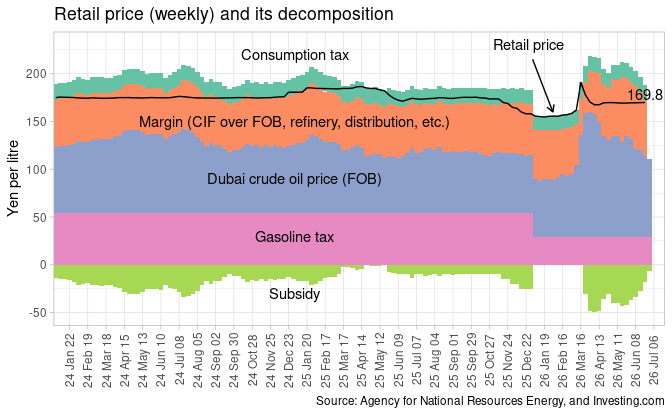
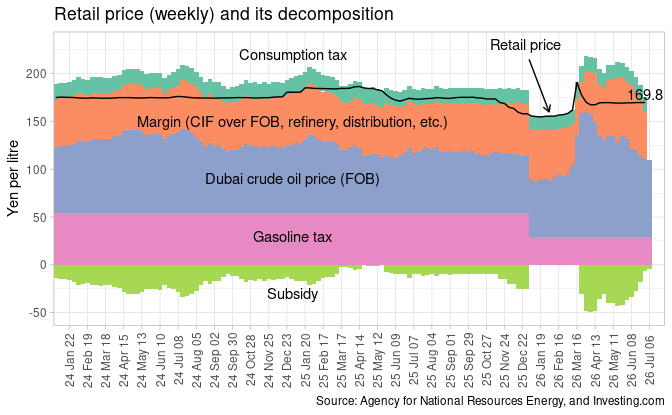
weekly update on July 1, 2026

diff --git a/README.md b/README.md
@@ -25,7 +25,7 @@ library(tidyquant)
 theme_set(theme_light())
 ```
 
-Updated: 2026-06-30
+Updated: 2026-07-01
 
 ## Weekly update
 
@@ -38,7 +38,7 @@ every Wednesday, usually. Sometimes, due to holidays, target dates and
 publishing dates are delayed.
 
 ``` r
-retail <- read_excel("data/260624s5.xlsx", 
+retail <- read_excel("data/260701s5.xlsx", 
                      sheet = "レギュラー",
                      col_types = c("text", "date", rep("numeric", 59))) |> 
   select(2:3) |> 
@@ -307,7 +307,8 @@ meti_dubai_weekly <- tribble(
 "2026-05-26", 92.7, # 06-01(Mon) 92.32 * 159.66 / 159
 "2026-06-02", 91.8, # 06-08(Mon) 91.17 * 160.18 / 159
 "2026-06-09", 84.9, # 06-15(Mon) 84.23 * 160.33 / 159
-"2026-06-16", 81.6 # 06-22(Mon) 80.35 * 161.57 / 159
+"2026-06-16", 81.6, # 06-22(Mon) 80.35 * 161.57 / 159
+"2026-06-23", 80.9 # 06-29(Mon) 79.45 * 161.95 / 159
 ) |> 
   fill(price, .direction = "down")
 ```
@@ -556,7 +557,8 @@ meti_subsidy <- tribble(
 "2026-05-26", 33.3,
 "2026-06-02", 27.0,
 "2026-06-09", 18.2,
-"2026-06-16", 6.0
+"2026-06-16", 6.0,
+"2026-06-23", 4.8
 ) |> 
   fill(subsidy, .direction = "down")
 ```